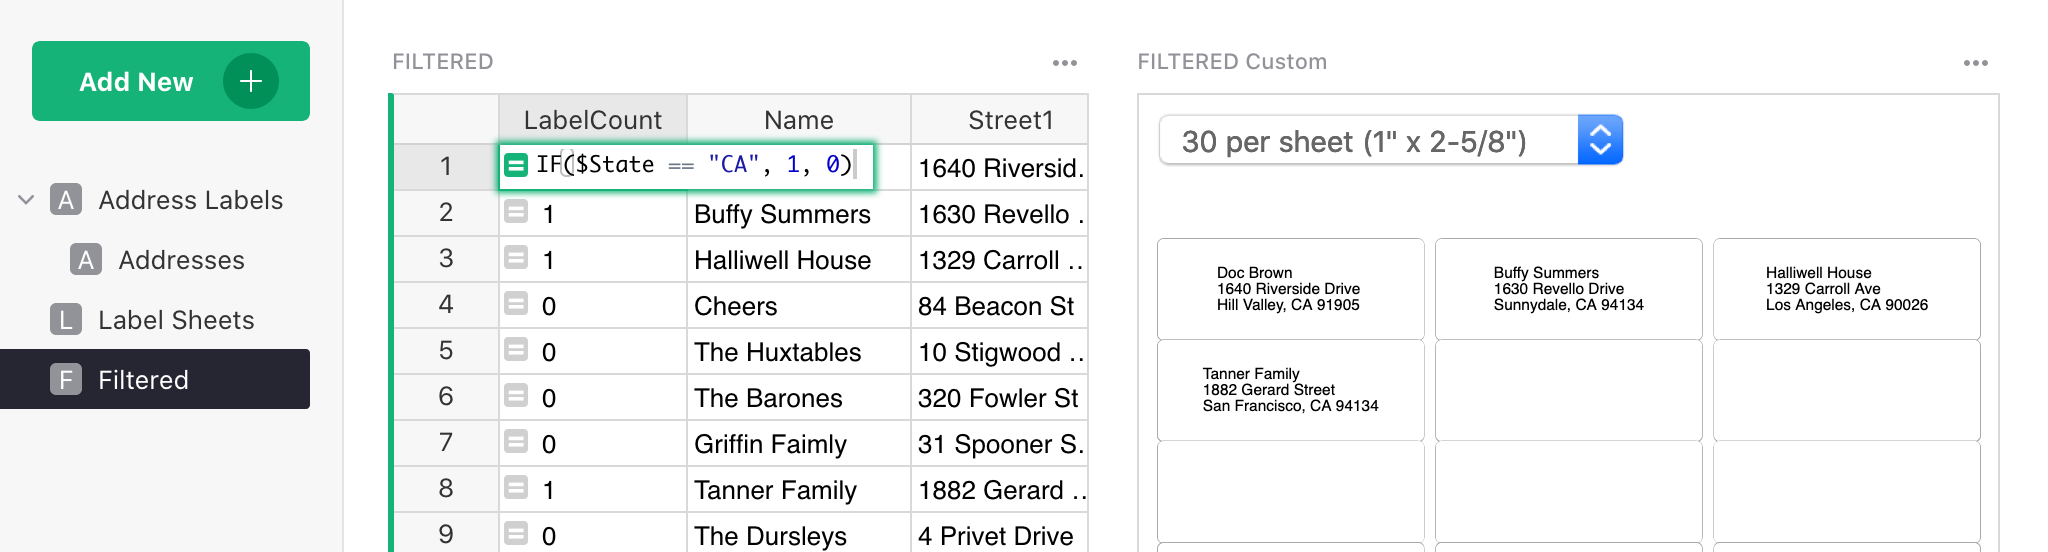
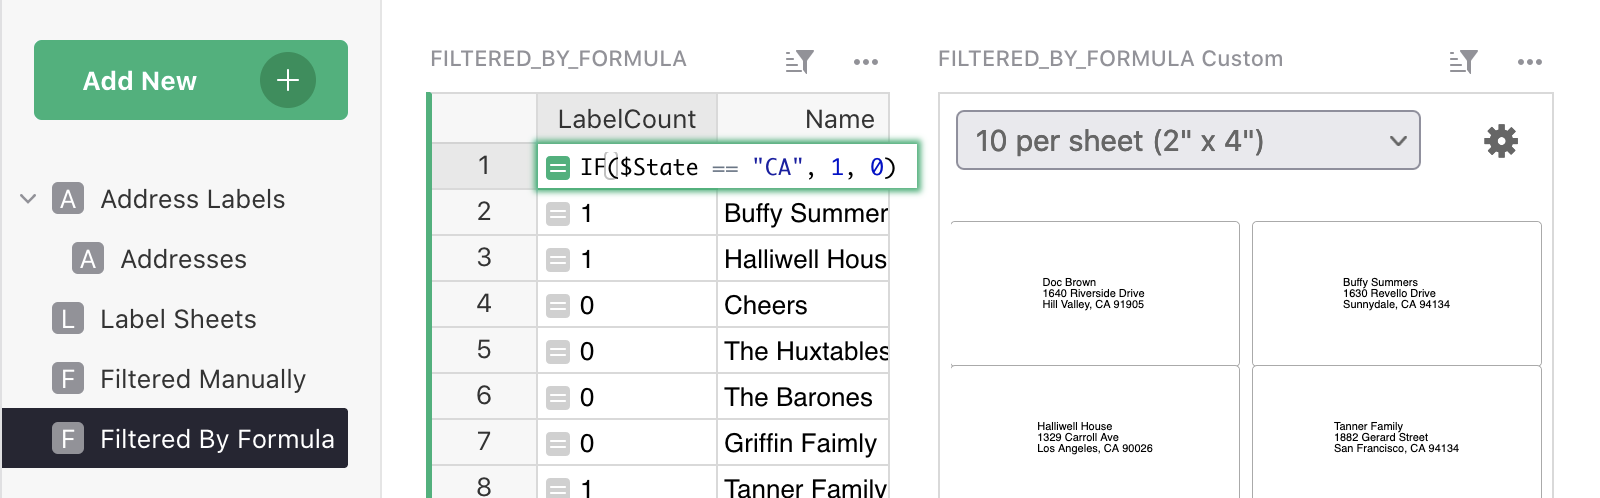
Update various documentation links to point to newer templates (#106)

diff --git a/help/examples/2020-10-print-labels.md b/help/examples/2020-10-print-labels.md
@@ -19,7 +19,7 @@ Let me first share a template. Later I'll describe how to add the same functiona
 existing document, e.g. to add mailing labels alongside [CRM](../lightweight-crm.md) or
 [Payroll](2020-09-payroll.md) data.
 
-The template is at: <https://public.getgrist.com/bk5LT8s722gE/Print-Labels/m/fork>{:target="\_blank"}.
+The template is at: <https://templates.getgrist.com/9nNr9uQwoXWA/Print-Mailing-Labels>{:target="\_blank"}.
 
 You can use it right away. Simply type in your own addresses.
 
@@ -57,12 +57,30 @@ zero for the addresses you don't want to include.
 
 ### A filtered list of labels
 
-To print out only a few labels out of a larger table, use a
-`LabelCount` column with a formula. This formula can produce 1 for a label that should be
-included, or 0 for a label that should not. The page "Filtered" shows an example, with the simple
-formula that includes only California addresses: `IF($State == "CA", 1, 0)`{: .formula}:
+There are a few ways in which you can print out only a few labels out of a larger table, and these
+are illustrated in the linked template:
 
-![Filtered Page](/examples/images/2020-10-print-labels/filtered-page.png)
+1. The "Address Labels" page includes a filter button for `State`, which allows simple filtering
+   by state. You can click `+` button to easily create additional filters like this:
+
+    <span class="screenshot-large">*![Filter Button](/examples/images/2020-10-print-labels/filter-button.png)*</span>
+    {: .screenshot-half }
+
+2. To print out only a few labels out of a larger table, you can use the
+   `LabelCount` column with a formula. This formula can produce 1 for a label that should be
+   included, or 0 for a label that should not. The page "Filtered By Formula" shows an example,
+   with the simple formula that includes only California addresses:
+   `IF($State == "CA", 1, 0)`{: .formula}:
+
+    ![Filtered Page](/examples/images/2020-10-print-labels/filtered-page.png)
+
+3. The "Filtered Manually" page includes a `Select for Print` column. Click any toggle to include
+   the corresponding row into the label sheet.
+
+[GO TO TEMPLATE](https://templates.getgrist.com/9nNr9uQwoXWA/Print-Mailing-Labels){:target="\_blank"}
+{: .grist-button }
+
+<br/>
 
 
 ## Adding Labels to Your Document

diff --git a/help/examples/2020-07-email-compose.md b/help/examples/2020-07-email-compose.md
@@ -26,7 +26,7 @@ person:
 {: .screenshot-half }
 
 See an example of this in action here:
-[Simple Compose](https://public.getgrist.com/eZPYkB1W2Jcu/Email-Links/m/fork){:target="\_blank"}.
+[Simple Compose](https://templates.getgrist.com/3HfynRQwpHPy/Email-Contacts){:target="\_blank"}.
 
 ## Cc, Bcc, Subject, Body
 
@@ -53,7 +53,7 @@ return "Compose mailto:%s?cc=sales@example.com&subject=%s&body=%s" % (
 ```
 
 A live example of this is here:
-[Advanced Compose](https://public.getgrist.com/eZPYkB1W2Jcu/Email-Links/p/2/m/fork){:target="\_blank"}.
+[Advanced Compose](https://templates.getgrist.com/3HfynRQwpHPy/Email-Contacts/p/2){:target="\_blank"}.
 
 ## Emailing Multiple People
 
@@ -72,7 +72,7 @@ return "Email Group mailto:%s" % quote(", ".join(people.Email))
 ```
 
 You can see this formula at work in
-[Group Compose](https://public.getgrist.com/eZPYkB1W2Jcu/Email-Links/p/3/m/fork){:target="\_blank"}.
+[Group Compose](https://templates.getgrist.com/3HfynRQwpHPy/Email-Contacts/p/3){:target="\_blank"}.
 
 Don't use this to replace an email marketing platform: since emails use your regular
 email program, you shouldn't use it for emailing thousands of people. But for small groups, this

diff --git a/help/examples/2020-09-payroll.md b/help/examples/2020-09-payroll.md
@@ -10,7 +10,7 @@ especially if you have part-time employees.
 
 ## The Payroll Template
 
-The finished template is here: <https://public.getgrist.com/eXEBnC3hPfYA/Payroll/m/fork>.
+The finished template is here: <https://templates.getgrist.com/5pHLanQNThxk/Payroll>{:target="\_blank"}.
 Feel free to open it in a separate window, and try things yourself as you go along.
 
 The template addresses a few needs:
@@ -137,10 +137,14 @@ multi-line formulas, variables, and comments.
 
 ## Using the Payroll template
 
-To start using this example for your own payroll, open the Share menu and click "Duplicate
-Document..."
+To start using this example for your own payroll, start with the template:
 
-<span class="screenshot-large">*![Share Menu](/examples/images/2020-09-payroll/share-menu.png)*</span>
+[GO TO TEMPLATE](https://templates.getgrist.com/5pHLanQNThxk/Payroll){:target="\_blank"}
+{: .grist-button }
+
+then click "Save Copy":
+
+<span class="screenshot-large">*![Save Copy](/examples/images/2020-09-payroll/save-copy.png)*</span>
 {: .screenshot-half }
 
 Then mark the "As Template" checkbox.

diff --git a/help/examples/2020-08-invoices.md b/help/examples/2020-08-invoices.md
@@ -7,7 +7,7 @@ shows you how to set up a document like this:
 ![Invoice](/examples/images/2020-08-invoices/final-invoice.png)
 
 
-You can find a finished template at [https://public.getgrist.com/fGBhgyJbcFbr/Billing/m/fork](https://public.getgrist.com/fGBhgyJbcFbr/Billing/m/fork).
+You can find a finished template at <https://templates.getgrist.com/9NH6D58FmxwP/Invoicing>{:target="\_blank"}.
 If you'd like to add invoices to an existing document, making them work the
 way you want, understanding this tutorial should get you there.
 

diff --git a/help/examples/2020-06-credit-card.md b/help/examples/2020-06-credit-card.md
@@ -21,7 +21,7 @@ any transaction to see its complete details.
 ![By Category](/examples/images/2020-06-credit-card-by-category.png)
 
 Here is the
-[example with sample data](https://public.getgrist.com/1npTYpf2Cgyk/AmEx-Activity-Example/m/fork){:target="\_blank"}
+[example with sample data](https://templates.getgrist.com/2i9WoHs2oRzK/Credit-Card-Activity-Template-AmEx/){:target="\_blank"}
  that you can play with.
 
 To use it for your own data, start by downloading your transactions. For American Express

diff --git a/help/glossary.md b/help/glossary.md
@@ -74,7 +74,7 @@ of that document to be created; the original document will remain unaffected. Th
 can be saved via the "Save Copy" button or menu option.
 
 You can add `/m/fork` to the end of any document's URL to make that document
-open in fiddle mode (e.g. https://public.getgrist.com/1npTYpf2Cgyk/AmEx-Activity-Example/m/fork).
+open in fiddle mode (e.g. `https://public.getgrist.com/3NsoHE2mWtEp/Lead-list/m/fork`).
 
 ## Field
 

diff --git a/help/examples/2020-06-book-club.md b/help/examples/2020-06-book-club.md
@@ -105,5 +105,5 @@ Once we have all these links, it makes sense to add a [Card View](../linking-wid
 ## Ready-made template
 
 Here is an
-[example book list](https://public.getgrist.com/hitjMGXBvPXP/Book-Club/m/fork){:target="\_blank"}
+[example book list](https://templates.getgrist.com/hdXy57qLiyNf/Book-Club){:target="\_blank"}
 that you can play with. The actual books listed may not be your thing, of course!  Adjust to taste.

diff --git a/help/examples/2020-11-treasure-hunt.md b/help/examples/2020-11-treasure-hunt.md
@@ -16,7 +16,7 @@ Here's an example hunt:
 
 You can play with the example yourself here:
 
-> <https://public.getgrist.com/2CdspaixULZa/Treasure-Hunt/m/fork>
+> <https://templates.getgrist.com/ihsZTnKTF7Lr/Treasure-Hunt>
 
 Once ready to start your own completely fresh hunt just do "Save Copy"
 and select "As Template".
